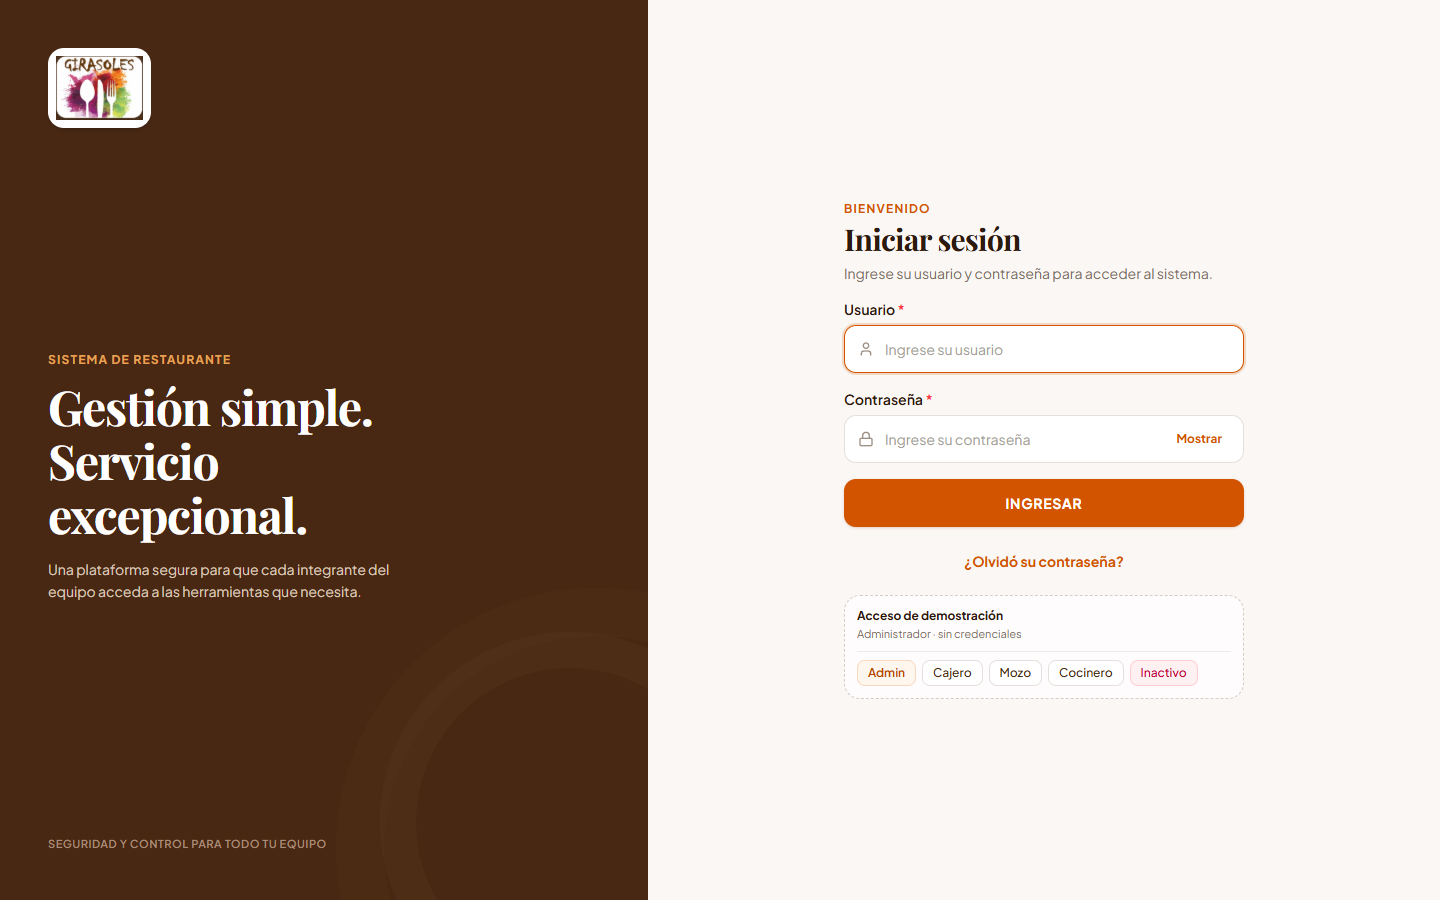
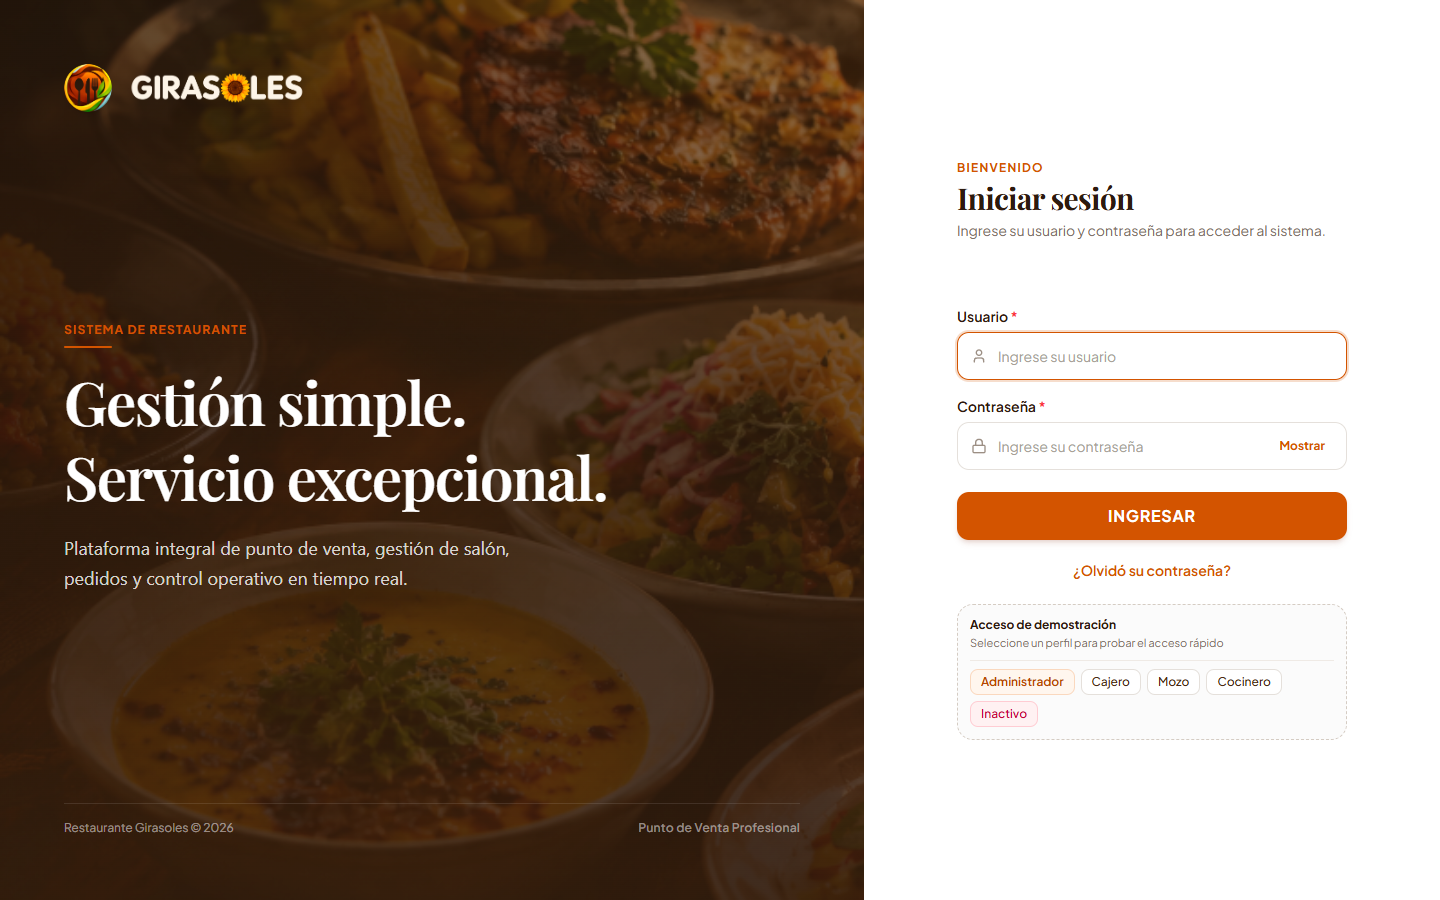
feat(ui, db): actualizar branding de login 60/40, optimizar tipografía y volcar backup de base de datos

diff --git a/frontend/src/layouts/AuthLayout.tsx b/frontend/src/layouts/AuthLayout.tsx
@@ -21,50 +21,67 @@ export const AuthLayout: React.FC<AuthLayoutProps> = ({ children }) => {
         />
       </header>
 
-      {/* 1. Panel Izquierdo: Branding y Tipografía (60% en pantallas grandes) */}
-      <aside className="hidden lg:flex lg:w-3/5 bg-[#3A2211] text-white p-12 xl:p-16 flex-col justify-between relative overflow-hidden shrink-0 select-none h-full">
+      {/* 1. Panel Izquierdo: Branding, Gastronomía y Tipografía (60% en pantallas grandes) */}
+      <aside className="hidden lg:flex lg:w-[60%] lg:max-w-[60%] lg:basis-[60%] text-white p-12 xl:p-16 flex-col justify-between relative overflow-hidden shrink-0 grow-0 select-none h-full bg-[#2C1A0E]">
+        {/* Fotografía gastronómica de fondo con imagen oficial del restaurante */}
+        <img
+          src="/bg-login-gastronomia.png"
+          alt="Gastronomía Restaurante Girasoles"
+          className="absolute inset-0 w-full h-full object-cover object-center pointer-events-none select-none z-0"
+        />
+
+        {/* Superposición con color café corporativo cálido y semitransparente para preservar contraste y legibilidad */}
+        <div
+          className="absolute inset-0 z-0 pointer-events-none"
+          style={{
+            background:
+              'linear-gradient(135deg, rgba(36, 20, 11, 0.68) 0%, rgba(58, 34, 17, 0.48) 50%, rgba(44, 26, 14, 0.70) 100%)',
+          }}
+          aria-hidden="true"
+        />
+
         {/* Cabecera de Logo superior izquierda */}
         <div className="relative z-10 flex items-center gap-3.5">
           <img
             src="/favicon.png"
             alt="Isotipo Girasoles"
-            className="w-12 h-12 rounded-full object-cover shrink-0 shadow-md"
+            className="w-12 h-12 rounded-full object-cover shrink-0 shadow-lg ring-2 ring-white/20"
           />
           <img
             src="/LOGO_GIRASOLES.png"
             alt="Girasoles Restaurante"
-            className="h-8 w-auto object-contain"
+            className="h-8 w-auto object-contain drop-shadow-md"
           />
         </div>
 
         {/* Textos Centrales alineados a la izquierda y centrados verticalmente */}
         <div className="relative z-10 my-auto py-8 max-w-xl text-left">
           <div className="mb-4">
-            <span className="text-[#D35400] font-bold tracking-widest text-xs uppercase block mb-2">
+            <span className="text-[#F39C12] font-bold tracking-widest text-xs uppercase block mb-2 drop-shadow">
               SISTEMA DE RESTAURANTE
             </span>
-            <div className="w-12 h-0.5 bg-[#D35400] rounded-full" />
+            <div className="w-12 h-0.5 bg-[#F39C12] rounded-full shadow-sm" />
           </div>
 
-          <h1 className="font-brand-serif text-5xl lg:text-6xl text-white leading-tight mb-5 tracking-tight">
+          <h1 className="font-brand-serif text-5xl lg:text-6xl text-white leading-tight mb-5 tracking-tight drop-shadow-lg">
             Gestión simple.<br />
             Servicio excepcional.
           </h1>
 
-          <p className="text-white/80 font-sans text-base lg:text-lg max-w-md leading-relaxed">
+          <p className="text-white/95 font-sans text-base lg:text-lg max-w-md leading-relaxed drop-shadow-md font-medium">
             Plataforma integral de punto de venta, gestión de salón, pedidos y control operativo en tiempo real.
           </p>
         </div>
 
         {/* Pie de página inferior sutil */}
-        <footer className="relative z-10 pt-4 border-t border-white/10 flex items-center justify-between text-xs text-white/50">
+        <footer className="relative z-10 pt-4 border-t border-white/20 flex items-center justify-between text-xs text-white/80 font-medium drop-shadow-sm">
           <span>Restaurante Girasoles &copy; {new Date().getFullYear()}</span>
-          <span className="font-medium tracking-wide">Punto de Venta Profesional</span>
+          <span className="tracking-wide">Punto de Venta Profesional</span>
         </footer>
       </aside>
 
-      {/* 2. Panel Derecho: Formulario Enfocado (40% en pantallas grandes) */}
-      <main className="w-full lg:w-2/5 bg-white flex flex-col justify-center items-center px-6 sm:px-10 lg:px-12 xl:px-16 py-6 h-full overflow-y-auto lg:overflow-hidden">
+      {/* 2. Panel Derecho: Formulario de Inicio de Sesión (40% en pantallas grandes) */}
+      <main className="w-full lg:w-[40%] lg:max-w-[40%] lg:basis-[40%] bg-white flex flex-col justify-center items-center px-6 sm:px-10 lg:px-12 xl:px-16 py-6 h-full shrink-0 grow-0 overflow-y-auto lg:overflow-hidden">
         <div className="w-full max-w-[390px] flex flex-col justify-center my-auto">
           {children}
         </div>

diff --git a/frontend/src/pages/LoginPage.tsx b/frontend/src/pages/LoginPage.tsx
@@ -177,7 +177,23 @@ export const LoginPage: React.FC<LoginPageProps> = ({
       </header>
 
       {/* 1. Panel Izquierdo: Branding y Tipografía (60% en pantallas grandes) */}
-      <aside className="hidden lg:flex lg:w-3/5 bg-[#3A2211] text-white p-12 xl:p-16 flex-col justify-between relative overflow-hidden shrink-0 select-none h-full">
+      <aside className="hidden lg:flex lg:w-[60%] lg:max-w-[60%] lg:basis-[60%] text-white p-12 xl:p-16 flex-col justify-between relative overflow-hidden shrink-0 grow-0 select-none h-full bg-[#2C1A0E]">
+        {/* Fotografía gastronómica de fondo */}
+        <img
+          src="/bg-login-gastronomia.png"
+          alt="Gastronomía Restaurante Girasoles"
+          className="absolute inset-0 w-full h-full object-cover object-center pointer-events-none select-none z-0"
+        />
+
+        {/* Superposición con color café corporativo cálido y semitransparente */}
+        <div
+          className="absolute inset-0 z-0 pointer-events-none"
+          style={{
+            background:
+              'linear-gradient(135deg, rgba(36, 20, 11, 0.70) 0%, rgba(58, 34, 17, 0.52) 50%, rgba(44, 26, 14, 0.72) 100%)',
+          }}
+          aria-hidden="true"
+        />
         {/* Cabecera de Logo superior izquierda */}
         <div className="relative z-10 flex items-center gap-3.5">
           <img
@@ -196,18 +212,17 @@ export const LoginPage: React.FC<LoginPageProps> = ({
         <div className="relative z-10 my-auto py-8 max-w-xl text-left">
           <div className="mb-4">
             <span className="text-[#D35400] font-bold tracking-widest text-xs uppercase block mb-2">
-              SISTEMA DE RESTAURANTE
+              BIENVENIDOS A:
             </span>
             <div className="w-12 h-0.5 bg-[#D35400] rounded-full" />
           </div>
 
-          <h1 className="font-brand-serif text-5xl lg:text-6xl text-white leading-tight mb-5 tracking-tight">
-            Gestión simple.<br />
-            Servicio excepcional.
+          <h1 className="font-brand-serif text-[50px] lg:text-[60px] text-white leading-tight mb-5 tracking-tight">
+            GIRASOLESRES.<br />
           </h1>
 
           <p className="text-white/80 font-sans text-base lg:text-lg max-w-md leading-relaxed">
-            Plataforma integral de punto de venta, gestión de salón, pedidos y control operativo en tiempo real.
+            Restaurante de comida criolla y gastronomía peruana, preparada con cariño y servida con calidad.
           </p>
         </div>
 
@@ -219,7 +234,7 @@ export const LoginPage: React.FC<LoginPageProps> = ({
       </aside>
 
       {/* 2. Panel Derecho: Formulario Enfocado (40% en pantallas grandes sin scrollbars) */}
-      <main className="w-full lg:w-2/5 bg-white flex flex-col justify-center items-center px-6 sm:px-10 lg:px-12 xl:px-16 py-6 h-full overflow-y-auto lg:overflow-hidden">
+      <main className="w-full lg:w-[40%] lg:max-w-[40%] lg:basis-[40%] bg-white flex flex-col justify-center items-center px-6 sm:px-10 lg:px-12 xl:px-16 py-6 h-full shrink-0 grow-0 overflow-y-auto lg:overflow-hidden">
         <div className="w-full max-w-[390px] flex flex-col justify-center my-auto">
           {/* Encabezado del Formulario */}
           <div className="mb-3 text-left">

diff --git a/frontend/src/pages/CocinaPage.tsx b/frontend/src/pages/CocinaPage.tsx
@@ -463,7 +463,7 @@ export const CocinaPage: React.FC<CocinaPageProps> = ({ session, onLogout }) => 
               <div className="flex items-center justify-between px-2">
                 <div className="flex items-center gap-2">
                   <span className="w-3 h-3 rounded-full bg-amber-500 animate-ping" />
-                  <h2 className="text-lg font-bold text-neutral-800 uppercase tracking-wide">
+                  <h2 className="text-lg font-bold font-sans text-neutral-800 uppercase tracking-wide">
                     Pendientes
                   </h2>
                 </div>
@@ -608,7 +608,7 @@ export const CocinaPage: React.FC<CocinaPageProps> = ({ session, onLogout }) => 
               <div className="flex items-center justify-between px-2">
                 <div className="flex items-center gap-2">
                   <span className="w-3 h-3 rounded-full bg-blue-600 animate-pulse" />
-                  <h2 className="text-lg font-bold text-neutral-800 uppercase tracking-wide">
+                  <h2 className="text-lg font-bold font-sans text-neutral-800 uppercase tracking-wide">
                     En Preparación
                   </h2>
                 </div>

diff --git a/frontend/index.html b/frontend/index.html
@@ -1,9 +1,15 @@
 <!doctype html>
-<html lang="en">
+<html lang="es">
   <head>
     <meta charset="UTF-8" />
     <link rel="icon" type="image/png" href="/favicon.png" />
     <meta name="viewport" content="width=device-width, initial-scale=1.0" />
+    <link rel="preconnect" href="https://fonts.googleapis.com" />
+    <link rel="preconnect" href="https://fonts.gstatic.com" crossorigin />
+    <link
+      href="https://fonts.googleapis.com/css2?family=Playfair+Display:ital,wght@0,600;0,700;1,600&family=Plus+Jakarta+Sans:wght@400;500;600;700&display=swap"
+      rel="stylesheet"
+    />
     <title>Restaurante Girasoles</title>
   </head>
   <body>
